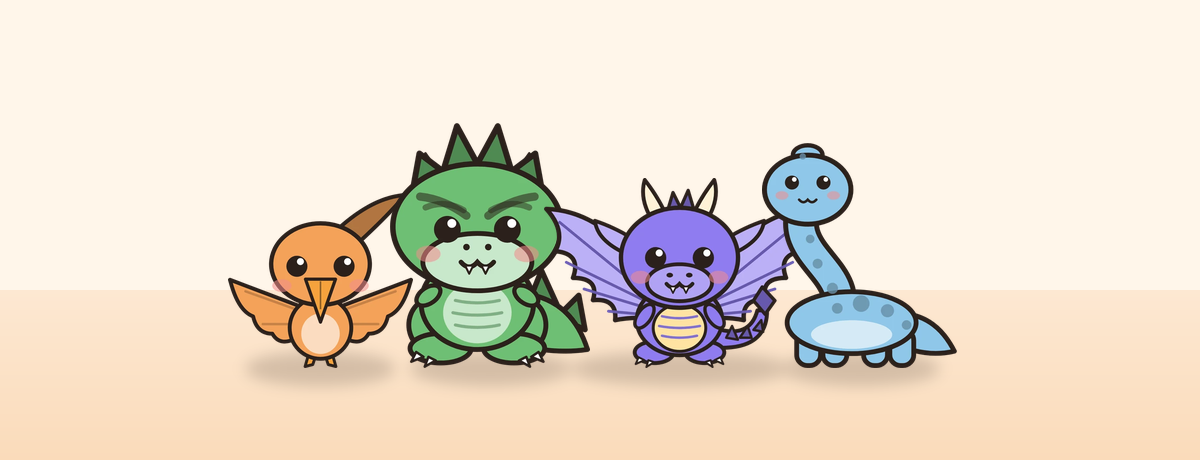
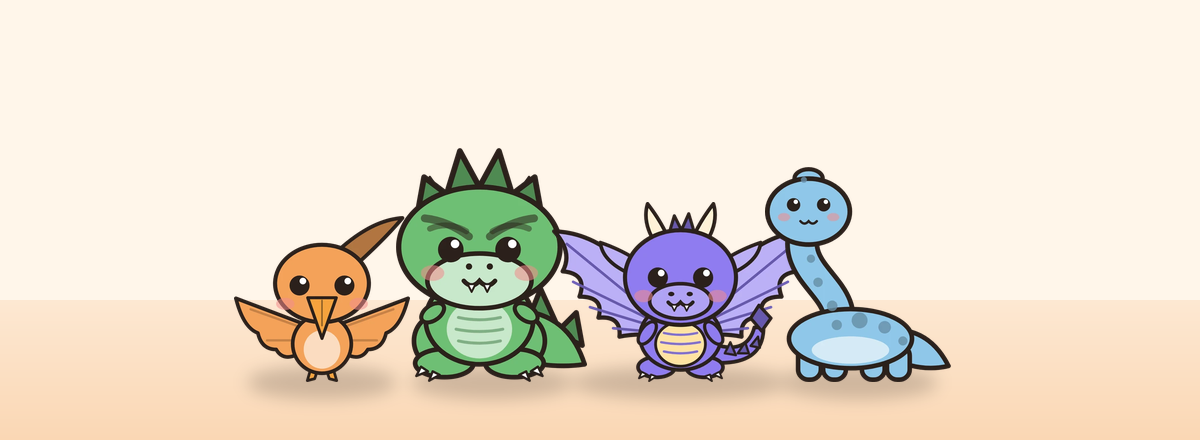
Guides: fix image alignment, rebuild heroes, add screenshots
- Cache-bust style.css to ?v=3 on all four guide pages; the old
  cached stylesheet let the hero render at its natural 1200px
- Harden image rules with explicit max-width:100% on figure,
  figure img, img.hero, figcaption and .card .thumb
- Rebuild the three header images with a lower horizon so the
  pets stand on the band instead of floating above it
- Add six more in-article screenshots (nine total)

Claude-Session: https://claude.ai/code/session_014TYwy4FHKSGQaoCLC8E42C

Changed region(s): [[0.0, 0.2659, 1.0, 0.9159]]

diff --git a/guides/child-wants-a-pet/index.html b/guides/child-wants-a-pet/index.html
@@ -12,7 +12,7 @@
 <meta property="og:url" content="https://noodlepets.app/guides/child-wants-a-pet/">
 <meta property="og:type" content="article">
 <meta name="twitter:card" content="summary_large_image">
-<link rel="stylesheet" href="/guides/style.css">
+<link rel="stylesheet" href="/guides/style.css?v=3">
 <link rel="icon" href="/favicon.ico" sizes="48x48">
 <link rel="icon" type="image/png" sizes="32x32" href="/favicon-32.png">
 <link rel="apple-touch-icon" href="/apple-touch-icon.png">
@@ -52,6 +52,8 @@
   <p>The single most effective thing, and the most overlooked. Ask a neighbour with a dog whether your child can come on walks. Offer to feed a friend&rsquo;s cat while they are away. Many people with animals are quietly glad of the help, and a child who has a standing Saturday appointment with a real dog is a different child from one who has none.</p>
   <p>In some places you can also volunteer at a shelter as a family, usually from a certain age. It is worth a phone call.</p>
 
+  <figure class="shot"><img src="/images/s3_baby.webp" alt="A screen from Noodle Pets" width="780" height="1688" loading="lazy"><figcaption>A pet on its first day. It grows over real days, not play time.</figcaption></figure>
+
   <h3>Give them something real to be responsible for</h3>
   <p>Not a substitute animal. An actual job that matters and that nobody else will do if they do not do it. Watering the plants on Tuesdays. Filling the bird feeder. A worm bin, if you can face it. The point is not the task, it is that something depends on them and notices when they forget.</p>
   <p>Fish and small animals get suggested here a lot. Be careful: a hamster is a real animal with real needs and a real vet, and &ldquo;starter pet&rdquo; is how a lot of hamsters end up neglected by February. If you cannot commit to the animal yourself, do not buy it for the child.</p>
@@ -65,6 +67,8 @@
   <h3>Let them practise looking after something</h3>
   <p>A virtual pet is not a dog and should never be sold as one. What it is good at is the second thing on the list: being something that needs them, every day, in small ways, with consequences if they forget.</p>
   <p>That is a real skill, and children who get good at it tend to be more convincing when they next make the case for an actual animal. It is also a cheap, low-risk way for you to find out whether the enthusiasm survives contact with a daily chore.</p>
+
+  <figure class="shot"><img src="/images/s7_facts.webp" alt="A screen from Noodle Pets" width="780" height="1688" loading="lazy"><figcaption>Real animal facts turn up as the pet grows.</figcaption></figure>
 
   <h2>What not to do</h2>
 

diff --git a/guides/choosing-a-childrens-app/index.html b/guides/choosing-a-childrens-app/index.html
@@ -12,7 +12,7 @@
 <meta property="og:url" content="https://noodlepets.app/guides/choosing-a-childrens-app/">
 <meta property="og:type" content="article">
 <meta name="twitter:card" content="summary_large_image">
-<link rel="stylesheet" href="/guides/style.css">
+<link rel="stylesheet" href="/guides/style.css?v=3">
 <link rel="icon" href="/favicon.ico" sizes="48x48">
 <link rel="icon" type="image/png" sizes="32x32" href="/favicon-32.png">
 <link rel="apple-touch-icon" href="/apple-touch-icon.png">
@@ -68,6 +68,8 @@
 
   <p>&ldquo;Are you sure?&rdquo; is not a parental gate. A four-year-old is sure.</p>
 
+  <figure class="shot"><img src="/images/s8_color.webp" alt="A screen from Noodle Pets" width="780" height="1688" loading="lazy"><figcaption>A colouring page. Nothing here links out of the app.</figcaption></figure>
+
   <h2>5. Look for the ways out</h2>
 
   <p>Tap everything that looks like a link, a web icon, or a &ldquo;more games&rdquo; button. In a well-made children&rsquo;s app, every one of them is either absent or behind the same gate as the shop. A free web browser inside a toddler&rsquo;s app is a genuine problem, and it is more common than it should be.</p>
@@ -77,6 +79,8 @@
   <p>Chat, comments, usernames other people can see, shared rooms, leaderboards with free-text names. Any of these means strangers can reach your child, and moderation is usually thinner than claimed.</p>
 
   <p>For a young child the right amount of this is none.</p>
+
+  <figure class="shot"><img src="/images/s9_night.webp" alt="A screen from Noodle Pets" width="780" height="1688" loading="lazy"><figcaption>Bedtime. Care reminders are about this, not about sales.</figcaption></figure>
 
   <h2>7. Decide about notifications on day one</h2>
 

diff --git a/guides/ready-for-a-real-pet/index.html b/guides/ready-for-a-real-pet/index.html
@@ -12,7 +12,7 @@
 <meta property="og:url" content="https://noodlepets.app/guides/ready-for-a-real-pet/">
 <meta property="og:type" content="article">
 <meta name="twitter:card" content="summary_large_image">
-<link rel="stylesheet" href="/guides/style.css">
+<link rel="stylesheet" href="/guides/style.css?v=3">
 <link rel="icon" href="/favicon.ico" sizes="48x48">
 <link rel="icon" type="image/png" sizes="32x32" href="/favicon-32.png">
 <link rel="apple-touch-icon" href="/apple-touch-icon.png">
@@ -52,6 +52,8 @@
     <li><strong>Are the hours there?</strong> A dog alone for nine hours a day is not a well dog.</li>
   </ul>
 
+  <figure class="shot"><img src="/images/s1_home.webp" alt="A screen from Noodle Pets" width="780" height="1688" loading="lazy"><figcaption>The daily loop: eat, play, bath, bed.</figcaption></figure>
+
   <h2>About your child</h2>
 
   <p>Age matters less than people think. What matters is what they already do.</p>
@@ -76,6 +78,8 @@
   <p>What you are looking for is not perfection. It is what happens on the day they forget: do they notice, mind, and put it right? That is the whole skill. A child who forgets and then fixes it is ready. A child who forgets and shrugs is not, yet.</p>
 
   <p>A virtual pet works well for this, because the forgetting has visible consequences and nothing actually suffers. So do plants, a daily job, or looking after a neighbour&rsquo;s cat for a fortnight, which has the advantage of being a real animal.</p>
+
+  <figure class="shot"><img src="/images/s3_big.webp" alt="A screen from Noodle Pets" width="780" height="1688" loading="lazy"><figcaption>The same pet, weeks later.</figcaption></figure>
 
   <h2>If the answer is not yet</h2>
 

diff --git a/guides/style.css b/guides/style.css
@@ -46,12 +46,13 @@ blockquote p:last-child{margin:0}
 }
 
 /* article visuals */
-.hero{width:100%;height:auto;border-radius:22px;display:block;margin:0 0 6px}
-figure{margin:30px 0}
-figure img{width:100%;height:auto;border-radius:22px;display:block}
-figure.shot{max-width:300px;margin:30px auto}
+figure{margin:30px 0;max-width:100%}
+figure img{display:block;width:100%;max-width:100%;height:auto;border-radius:22px}
+img.hero{display:block;width:100%;max-width:100%;height:auto;border-radius:22px;margin:0}
+figure.shot{max-width:300px;margin:32px auto}
 figure.shot img{border-radius:26px;border:1px solid var(--line)}
-figcaption{margin-top:10px;color:var(--quiet);font-size:15px;text-align:center}
-.card .thumb{width:100%;height:150px;object-fit:cover;object-position:50% 72%;
+figcaption{margin-top:10px;color:var(--quiet);font-size:15px;text-align:center;
+  max-width:100%}
+.card .thumb{width:100%;max-width:100%;height:160px;object-fit:cover;object-position:50% 78%;
   border-radius:12px;margin:0 0 14px;display:block}
 .card{padding:16px 18px 20px}

diff --git a/guides/index.html b/guides/index.html
@@ -12,7 +12,7 @@
 <meta property="og:url" content="https://noodlepets.app/guides/">
 <meta property="og:type" content="website">
 <meta name="twitter:card" content="summary_large_image">
-<link rel="stylesheet" href="/guides/style.css">
+<link rel="stylesheet" href="/guides/style.css?v=3">
 <link rel="icon" href="/favicon.ico" sizes="48x48">
 <link rel="icon" type="image/png" sizes="32x32" href="/favicon-32.png">
 <link rel="apple-touch-icon" href="/apple-touch-icon.png">
